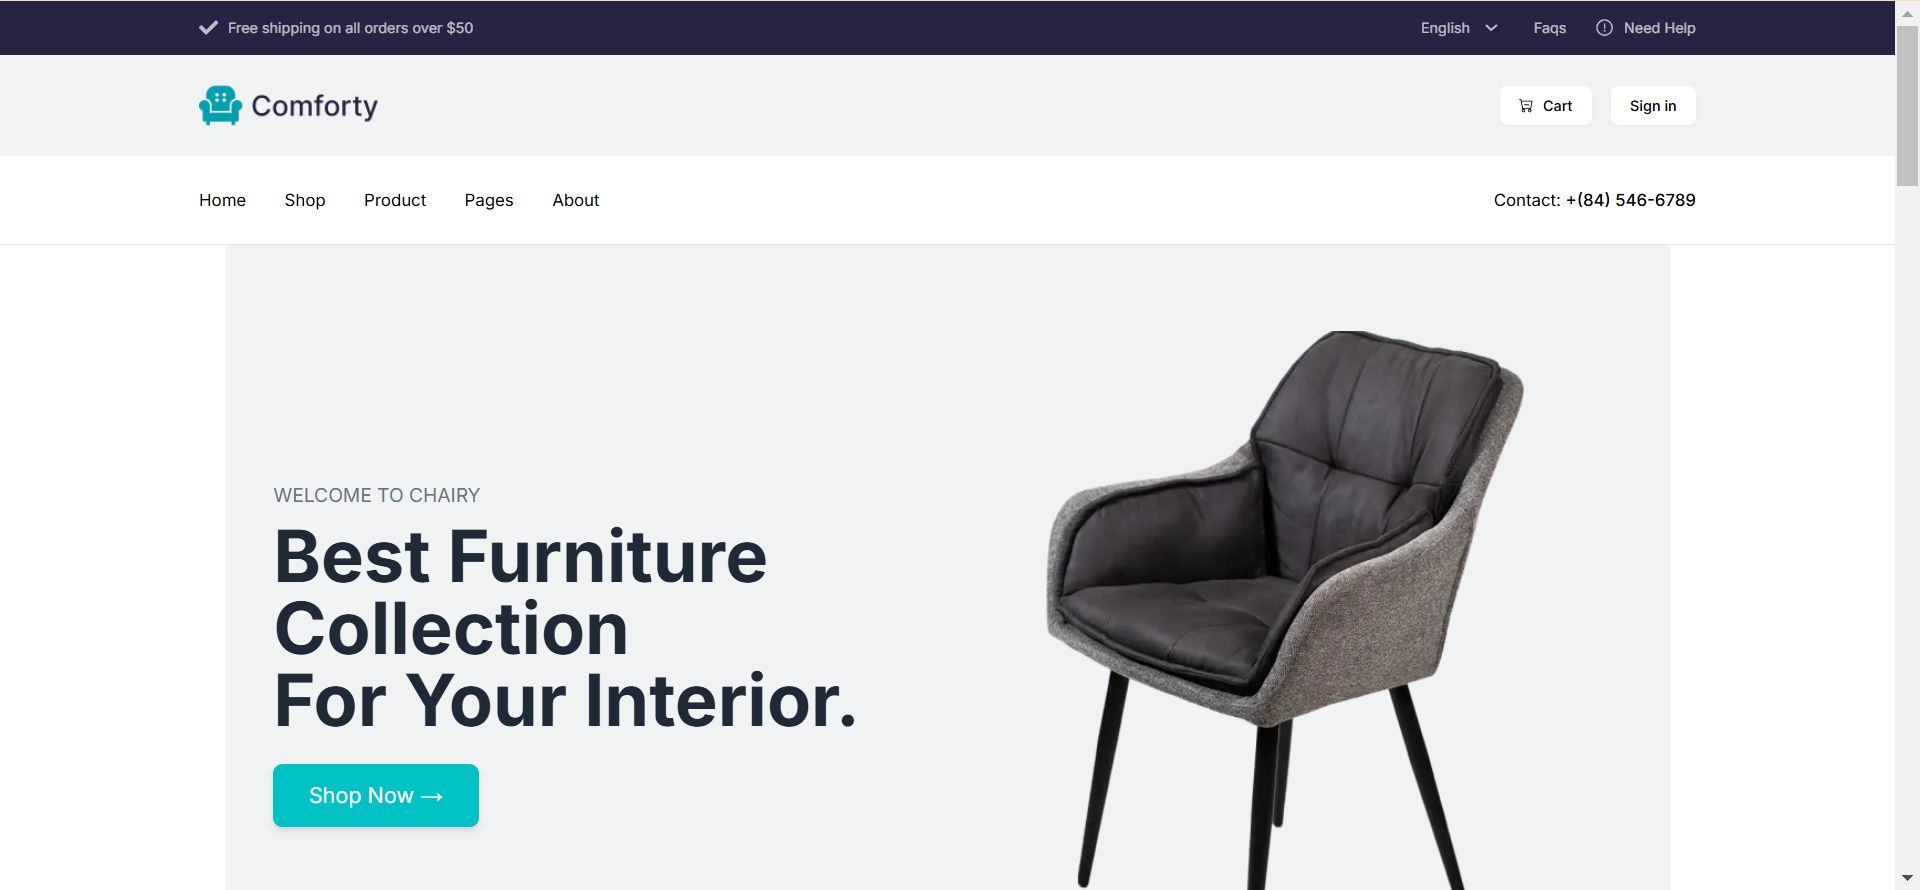
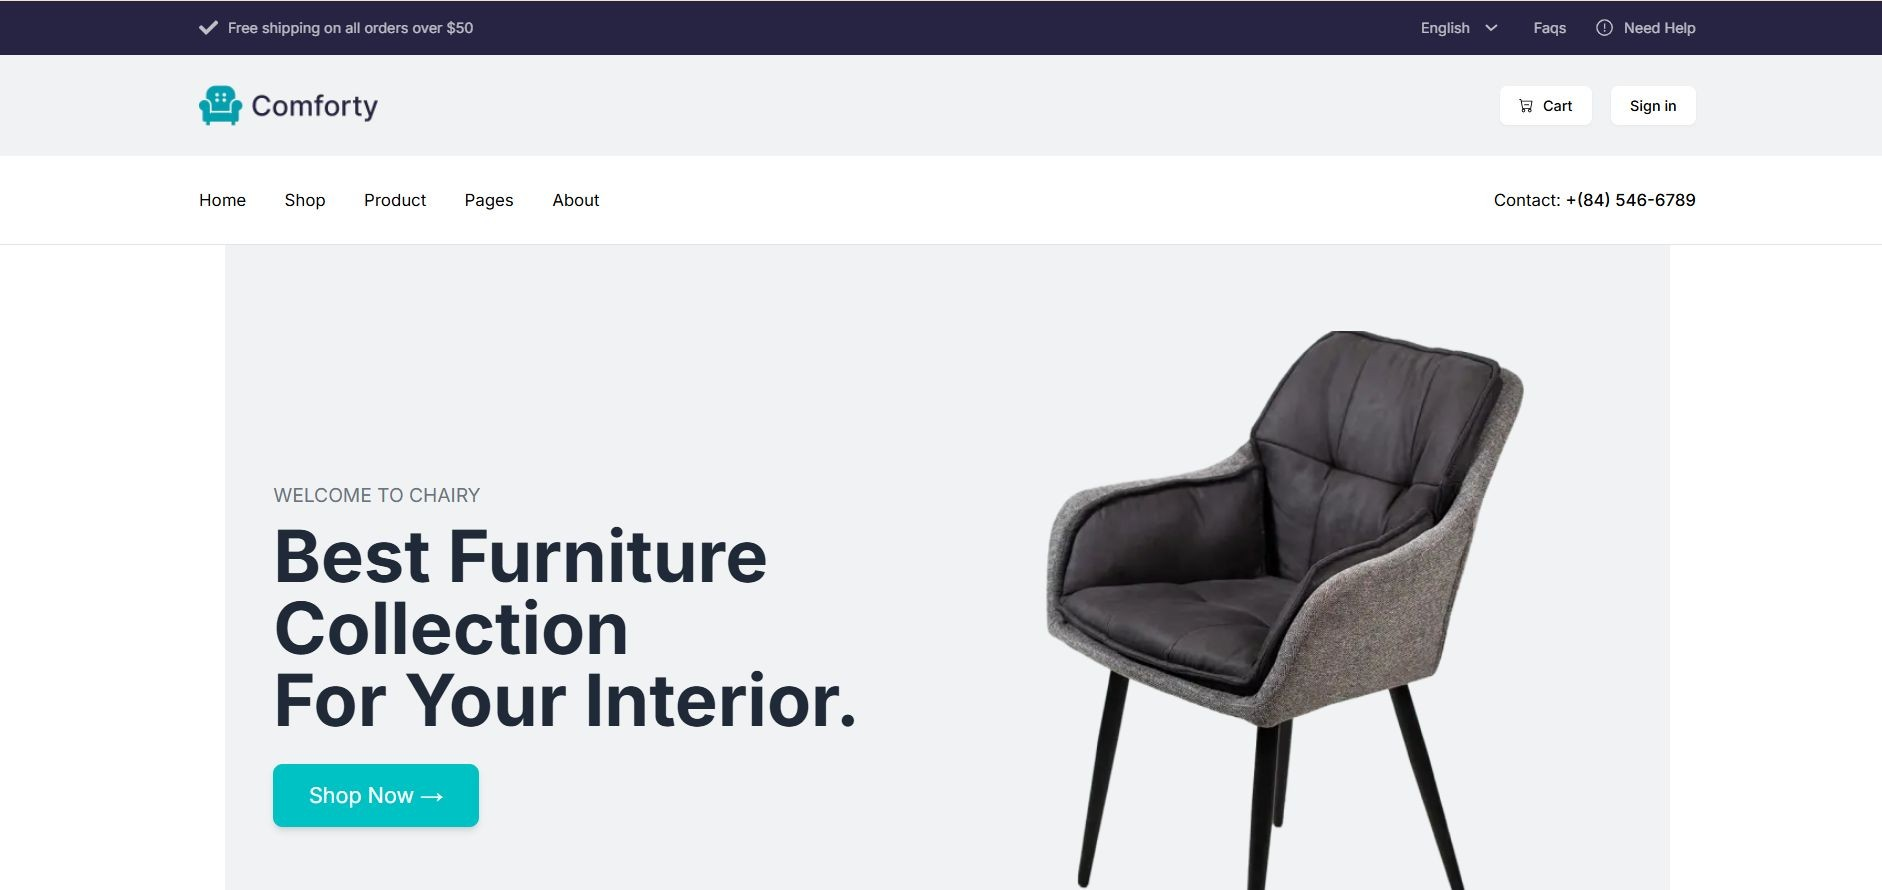
feat(portfolio): add CV download and update project images
Add Ali_Haider_Noorani_CV.pdf to public/ and update all download
links in Navbar and About section to point to the correct file.
Also replace Comforty and docusaurus-book project images with
updated versions.

diff --git a/src/components/layout/Navbar.tsx b/src/components/layout/Navbar.tsx
@@ -84,7 +84,7 @@ export function Navbar() {
           ))}
           <li>
             <a
-              href="/resume.pdf"
+              href="/Ali_Haider_Noorani_CV.pdf"
               download
               aria-label="Download resume PDF"
               className="inline-flex items-center gap-1.5 rounded-lg border border-accent-600 px-4 py-1.5 text-sm font-medium text-accent-600 hover:bg-accent-50 dark:border-accent-400 dark:text-accent-400 dark:hover:bg-accent-900/20 focus-ring transition-colors"
@@ -157,7 +157,7 @@ export function Navbar() {
           ))}
           <li className="mt-2 pt-2 border-t border-gray-200 dark:border-gray-700">
             <a
-              href="/resume.pdf"
+              href="/Ali_Haider_Noorani_CV.pdf"
               download
               aria-label="Download resume PDF"
               onClick={closeMenu}

diff --git a/src/components/sections/About.tsx b/src/components/sections/About.tsx
@@ -84,7 +84,7 @@ export function About() {
                 ) : null;
               })}
 
-              <Button as="a" href="/resume.pdf" download aria-label="Download resume PDF" variant="secondary">
+              <Button as="a" href="/Ali_Haider_Noorani_CV.pdf" download aria-label="Download resume PDF" variant="secondary">
                 Download Resume
               </Button>
             </div>